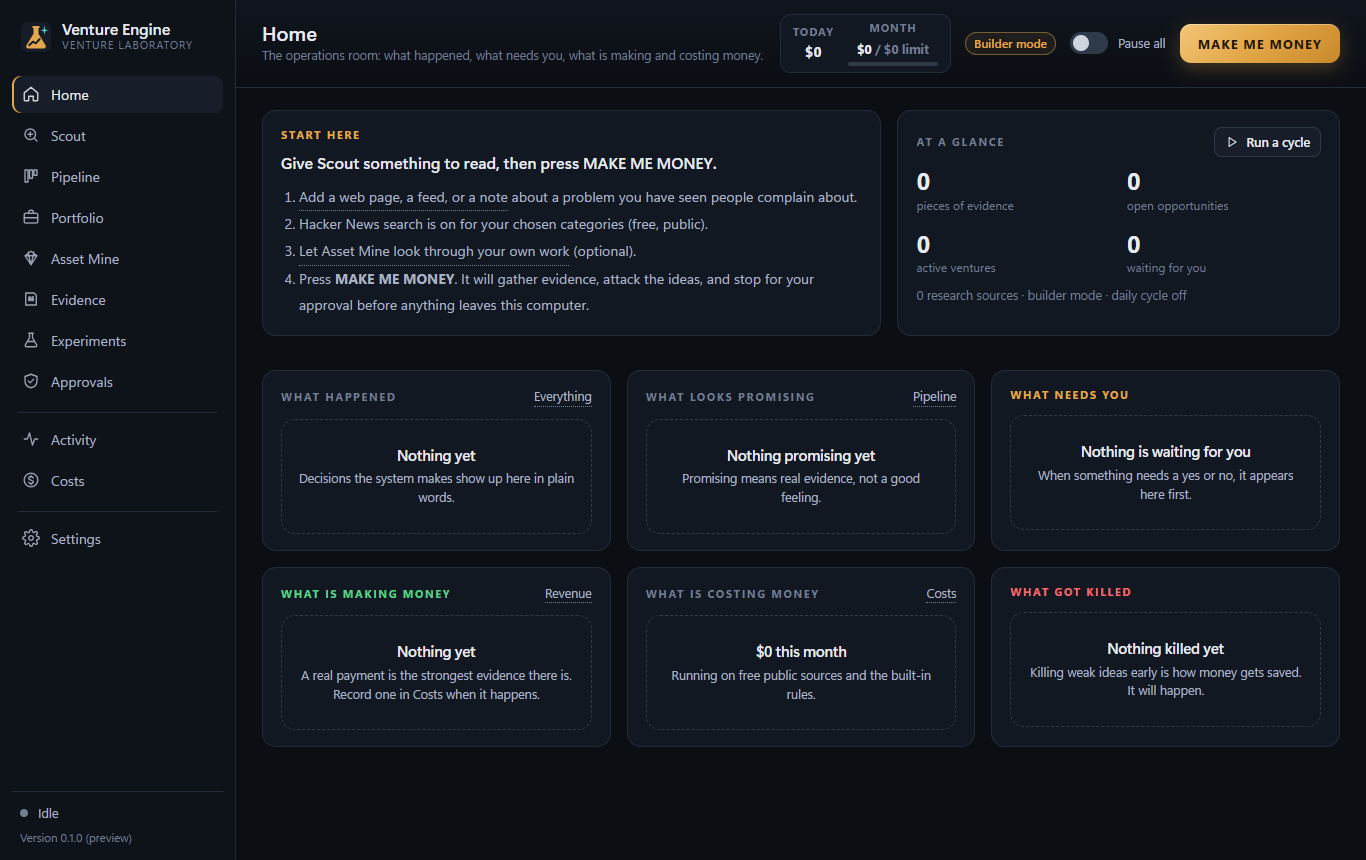
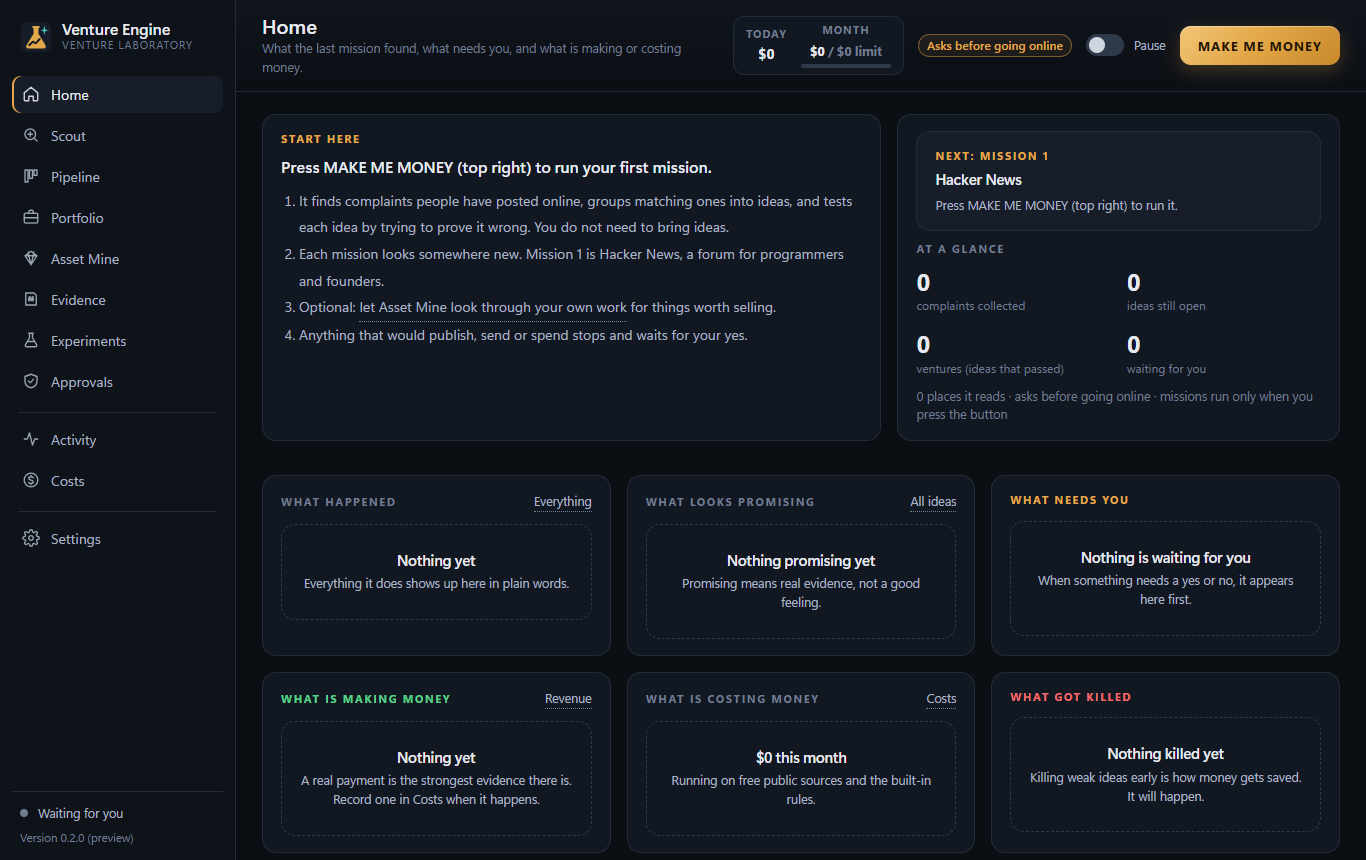
Venture Engine 0.2.0: missions that look somewhere new, plain words, new screenshots

diff --git a/README.md b/README.md
@@ -2,37 +2,49 @@
 
 ### A laboratory for small businesses, not a promise.
 
-![The operations room: what happened, what needs you, what is making and costing money](shots/01-home.png)
+![Home: what the last mission found, where the next one will look, and what needs you](shots/01-home.png)
 
 Venture Engine is a Windows app that looks for small businesses worth testing, builds evidence, and helps turn the strongest ones into experiments. **Most ideas it finds are killed early, on purpose, because killing weak ideas is what saves money.** Everything it learns stays on the computer.
 
+## Missions
+
+One button. Each press of **MAKE ME MONEY** runs the next mission, and every mission looks somewhere it has not looked before. Nobody has to bring ideas.
+
+![Mission 1: it says where it will look and what it will do before it starts](shots/05-mission.png)
+
+* **Mission 1** reads Hacker News. **Missions 2 to 8** read places where people talk about the tools they pay for: Reddit groups for small business owners, online sellers, tradespeople, creators, office workers and teachers; App Store reviews of paid work apps; question-and-answer sites where people ask "is there a program that does this?"; and reviews of popular WordPress plugins. Every one of those addresses was loaded and checked before it shipped.
+* **After that, Claude suggests new places**, and the app keeps only the addresses that actually load and turn up real complaints. Without AI, a mission re-checks the places already searched, and says so.
+* **Every place stays on the list** and is re-checked for new posts, so nothing is lost by moving on. Sites that dislike quick repeat visits are read one address at a time.
+* **Every mission uses the same test**: an idea must be testable for under $20 and under a day of building. Up to three ideas are tested by trying to prove each one wrong; at most one advances.
+* **The report is plain English**: where it looked, how many complaints it found, why each idea was ruled out, and where the next mission will look.
+
+![Scout: the next mission, the missions so far, and every place it reads](shots/06-scout.png)
+
 ## The loop
 
-Source, evidence, opportunity, analysis, validation, venture, experiment, approval, result. Then iterate, pause, or kill it, and go round again.
+Complaint, idea, test, venture, experiment, approval, result. Then keep going, change course, or stop, and go round again.
 
-* **Research** reads web pages, news feeds, your own notes, and free Hacker News search. The same page is never read twice, and a failing source rests and retries later.
-* **The Evidence Ledger** links every score to the quotes behind it. Assumptions are marked and never counted.
-* **The Validator** attacks each idea and kills early, with its reasons. On its first live test it killed the weak ideas and let nothing weak through: "No venture passed validation today."
-* **MAKE ME MONEY** runs the whole cycle with a live progress view, and says what it will do before it starts.
-* **Claude Code packets:** a venture that survives comes with a complete build brief, copied with one click.
+* **The Evidence Ledger** links every score to the quotes behind it, with a link to where each person said it. Guesses are marked and never counted as proof.
+* **The test** kills early, with its reasons in plain words. "Only one person says this." "Nobody has said they would pay."
+* **Build instructions for Claude Code:** an idea that survives comes with a complete build brief, copied with one click.
 
 ## You set how far it goes
 
 <table>
 <tr>
 <td width="50%"><img src="shots/02-welcome.png" alt="Welcome: four quick questions" width="440"></td>
-<td width="50%"><img src="shots/03-autonomy.png" alt="How autonomous should I be? Observer, Builder or Operator" width="440"></td>
+<td width="50%"><img src="shots/03-autonomy.png" alt="What may I do without asking you? Research only, research and build here, or get tests ready" width="440"></td>
 </tr>
 </table>
 
-Observer researches and recommends. Builder also makes local prototypes. Operator prepares external experiments too. **In every mode, anything that publishes, sends, spends or deploys stops and waits for your approval**, and a yes covers exactly the version you saw, once.
+Research only. Research and build on this computer. Or also get tests ready to go online. **Whichever you pick, anything that would publish, send or spend stops and waits for your yes**, and a yes covers exactly the version you saw, once.
 
 ## Money safety
 
-![Maximum monthly AI and API spend: $0 by default](shots/04-spend.png)
+![The most I may spend on AI each month: $0 by default](shots/04-spend.png)
 
-* **Every budget starts at $0**, and $0 is a real way to use it: free public sources, the built-in rules, and build briefs you paste into the Claude Code you already pay for.
-* Money is set aside before anything is spent. The cost meter labels every figure ESTIMATE or ACTUAL, and shows UNKNOWN where nothing was measured.
+* **Every limit starts at $0**, and $0 is a real way to use it: free public places, the built-in rules, and build briefs you paste into the Claude Code you already pay for.
+* Money is set aside before anything is spent. The cost meter labels every figure ESTIMATE or ACTUAL, and says unknown where nothing was measured.
 * AI providers (Claude, OpenAI, Gemini, local models) are optional. Keys live in Windows Credential Manager, with a monthly limit and a permission for each task.
 * **It never moves money itself.** Revenue and bills are entered by hand.
 
@@ -41,11 +53,12 @@ Observer researches and recommends. Builder also makes local prototypes. Operato
 * **Publishing is simulated.** An approved publish saves the page that would go live; no hosting is connected yet.
 * **Payment platforms are not read**, so revenue is typed in by hand.
 * **Without an AI key, judgement is blunt.** It kills most ideas, and titles are plain.
+* **Apple's review lists sometimes come back empty for a while**, so they are a bonus place to look, not the backbone.
 * **The installer is unsigned**, so Windows shows a warning on first launch.
 
 ## Status
 
-Version 0.1.0, for Windows. The whole loop is exercised three ways: 115 automated tests (the full loop among them, on a real database file), a walkthrough of the real screens with live public data, and the installed app checking itself (13 of 13 checks passed). The screenshots here come from a fresh, empty profile.
+Version 0.2.0, for Windows. 123 automated tests (the full loop among them, on a real database file, and eight for missions), a walkthrough of the real screens, and every built-in mission address checked live before release. The screenshots here come from a fresh, empty profile.
 
 The code is private.
 
